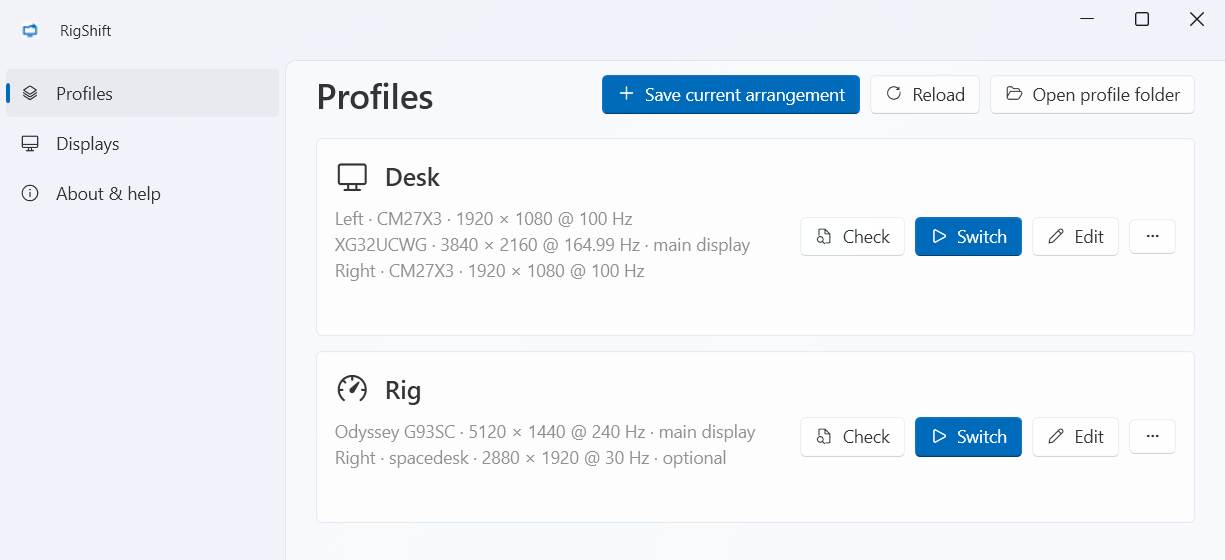
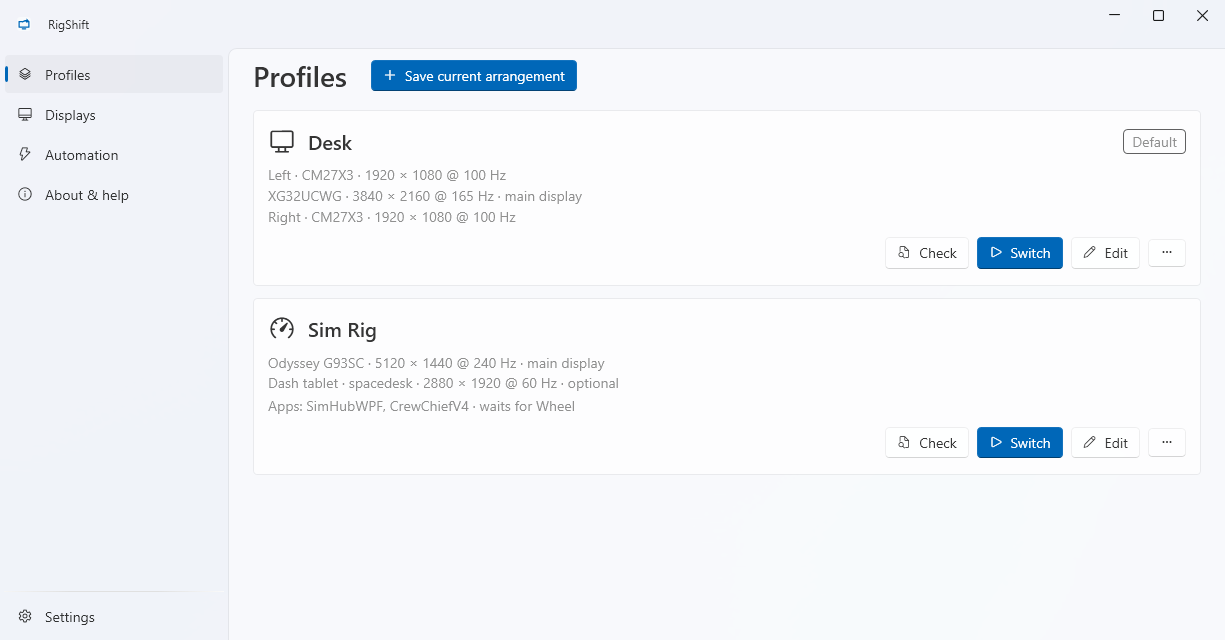
docs: refresh screenshots, README and roadmap for 1.4.1

diff --git a/README.md b/README.md
@@ -18,7 +18,7 @@ admin rights · [What's new](CHANGELOG.md)
 <p align="center">
   <picture>
     <source media="(prefers-color-scheme: light)" srcset="docs/screenshots/profiles-light.png">
-    <img alt="RigShift main window with a Desk and a Rig profile" src="docs/screenshots/profiles-dark.png" width="820">
+    <img alt="RigShift main window with a Desk and a Sim Rig profile, the rig starting SimHub and Crew Chief once the wheel is on" src="docs/screenshots/profiles-dark.png" width="820">
   </picture>
 </p>
 
@@ -39,8 +39,9 @@ see no picture after a switch, it simply switches back after a few seconds.
 - **One profile per setup** – which monitors are on, where they sit, which is the main display, resolution, refresh
   rate and HDR, plus playback and microphone device with volume.
 - **Safety net:** keep the new layout or it reverts on its own.
-- **Robust on real hardware:** waits for monitors that are still waking up, recognizes them after reboots and cable
-  swaps, and picks up optional screens (e.g. a spacedesk tablet) as soon as they appear.
+- **Robust on real hardware:** wakes monitors from standby, asks you to switch on a monitor that is off and waits for
+  it, recognizes monitors after reboots and cable swaps, and picks up optional screens (e.g. a spacedesk tablet) as
+  soon as they appear.
 - **Tells you what's wrong** in plain words instead of an error code.
 
 **Getting into the rig**
@@ -64,11 +65,11 @@ see no picture after a switch, it simply switches back after a few seconds.
 | | |
 |---|---|
 | <img alt="Automation page with a wheelbase rule" src="docs/screenshots/automation-dark.png" width="400"> | <img alt="Profile editor with displays, refresh rate and HDR" src="docs/screenshots/profile-editor-dark.png" width="400"> |
-| **Automation** – to the rig when the wheelbase (and pedals) turn on, back when they are off. | **Profile editor** – displays with refresh rate and HDR, audio, apps. |
+| **Automation** – to the rig when the wheelbase and pedals turn on, back to the desk when they are off, with your own device names. | **Profile editor** – displays with refresh rate, HDR and optional screens, keyboard shortcut, audio, apps. |
 | <img alt="Tray popup for switching profiles" src="docs/screenshots/tray-popup-dark.png" width="400"> | <img alt="Confirmation dialog with countdown" src="docs/screenshots/confirmation-dark.png" width="400"> |
 | **Tray popup** – switch profiles from the notification area. | **Safety net** – keep the new layout or it reverts on its own. |
 | <img alt="Displays page with monitor names" src="docs/screenshots/displays-dark.png" width="400"> | <img alt="Settings page" src="docs/screenshots/settings-dark.png" width="400"> |
-| **Displays** – every connected monitor, your own names, Identify. | **Settings** – default profile, autostart, confirmation, language. |
+| **Displays** – every connected monitor, your own names, Identify. | **Settings** – default profile, autostart, confirmation time, language, automatic updates. |
 
 ## Getting started
 

diff --git a/docs/ROADMAP.md b/docs/ROADMAP.md
@@ -25,14 +25,26 @@ RigShift is meant to stay small: switch into the rig and back, reliably.
 ## v1.3 – getting into the rig
 
 - 🟢 Volume per profile (playback and recording)
-- 🟡 Launch / stop apps per profile (SimHub, Crew Chief, …), optionally after a USB device is detected
-- 🟡 USB device triggers (wheelbase, headset dongle) with a delay per rule before switching back
+- 🟢 Launch / stop apps per profile (SimHub, Crew Chief, …), optionally after a USB device is detected
+- 🟢 USB device triggers (wheelbase, headset dongle) with a delay per rule before switching back
 - 🟡 Keep awake per profile: no sleep, screen saver or display timeout
-- 🟡 HDR and refresh rate per display
-- 🟡 Windows left on switched-off screens move to the main screen
-- 🟡 Warning when Windows may power down a USB trigger device
+- 🟡 HDR and refresh rate per display – HDR over HDMI froze the graphics driver of the test PC, also from the Windows
+  settings; 1.4.1 guards the call
+- 🟢 Windows left on switched-off screens move to the main screen
+- 🟢 Warning when Windows may power down a USB trigger device
 - 🟡 Game sound stays loud during calls (Windows communications ducking off per profile)
 - 🟢 Custom monitor names, Displays and About & help pages
+
+## v1.4 – polish after the first hardware round
+
+- 🟢 Automation rules with several USB devices and custom device names (1.4.0)
+- 🟢 Apps start after the switch; hotkeys and automation keep working while they wait for their device (1.4.0)
+- 🟢 Diagnostic info without user name and full device paths (1.4.0, 1.4.1)
+- 🟡 Ask to switch on a monitor that is off and wait for it (1.4.1)
+- 🟡 Known USB devices and refresh rates stay selectable while the device or display is off (1.4.1)
+- ⚪ Display numbers as in the Windows settings
+- ⚪ App picker with installed and running programs instead of a file dialog
+- ⚪ Offer to apply audio and apps when Windows itself restores a profile's display layout
 
 Dropped after a scope review (the tool should stay small):
 
@@ -45,6 +57,5 @@ Dropped after a scope review (the tool should stay small):
 ## v2 – community
 
 - Setup wizard for first-time users
-- Anonymised diagnostics export for issues
 - winget
 - AMD / Intel validation, per-GPU head-budget presets
